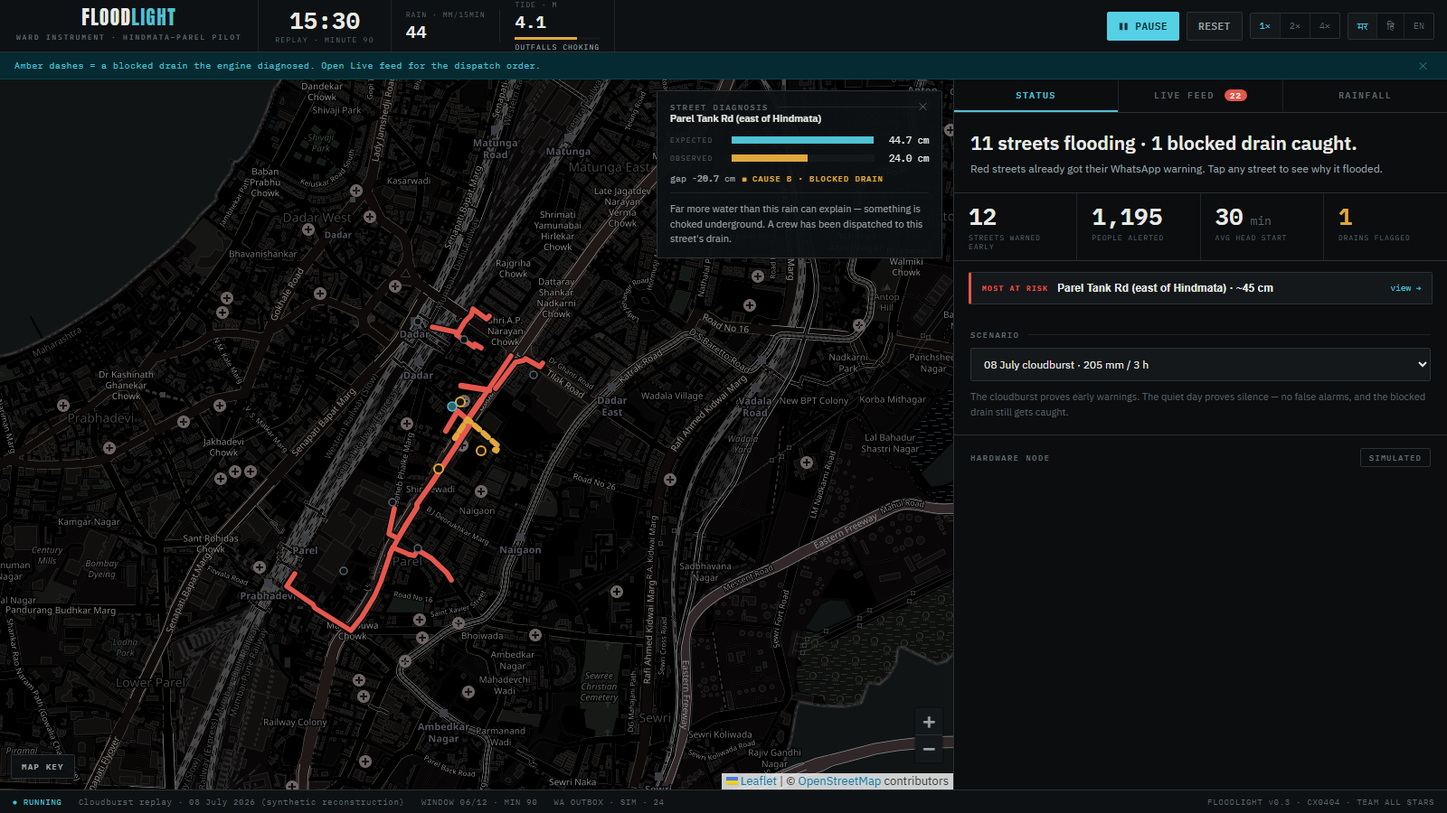
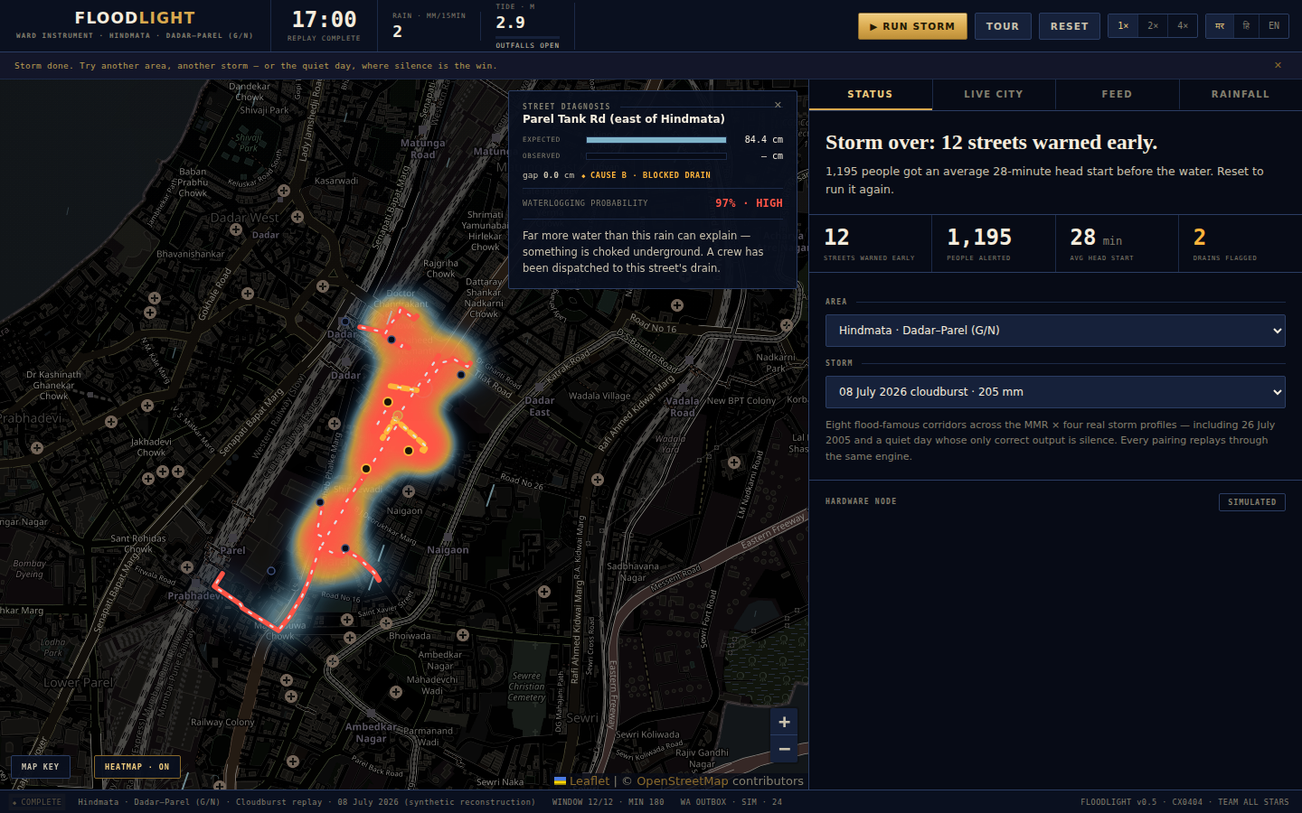
docs: the README, re-cut in the new metal
New banner and every screenshot regenerated from the redesigned
instrument (war room, diagnosis, dispatch, alerts, quiet day, landing,
and STORM WATCH over Bangkok), badges re-struck in navy/brass, a
one-click demo-links table up top, a full STORM WATCH · EARTH section
with the onboarding-not-modelling line, updated test count and honesty
notes, and the stage-kit paragraph. Also: fresh og.png with the new
hero CTA, window.__map demo handle, statusbar reads v0.7.

Claude-Session: https://claude.ai/code/session_01NCAyqExnhYcrByms5d1zCM

diff --git a/floodlight/static/app.js b/floodlight/static/app.js
@@ -52,6 +52,7 @@ const map = L.map("map", {
 }).setView([19.0135, 72.8447], 15);
 
 L.control.zoom({ position: "bottomright" }).addTo(map);
+window.__map = map;                 // demo/scripting handle
 
 const baseTiles = L.tileLayer("https://tile.openstreetmap.org/{z}/{x}/{y}.png", {
   attribution: '&copy; <a href="https://www.openstreetmap.org/copyright">OpenStreetMap</a> contributors',

diff --git a/floodlight/static/index.html b/floodlight/static/index.html
@@ -251,7 +251,7 @@
     <span id="sb-window">WINDOW 00/12</span>
     <span id="sb-outbox">WA OUTBOX · SIM · 0</span>
     <span id="sb-sky" hidden></span>
-    <span class="right">FLOODLIGHT v0.5 · CX0404 · TEAM ALL STARS</span>
+    <span class="right">FLOODLIGHT v0.7 · CX0404 · TEAM ALL STARS</span>
   </footer>
 
   <script src="/static/vendor/leaflet/leaflet.js"></script>

diff --git a/README.md b/README.md
@@ -1,37 +1,55 @@
 <p align="center">
-  <img src="docs/banner.png" alt="FLOODLIGHT — every street warned, every drain diagnosed" width="820" />
+  <img src="docs/banner.png" alt="FLOODLIGHT — every street warned, every drain diagnosed" width="980" />
+</p>
+
+<h3 align="center">Every street, <em>warned.</em> &nbsp;Every drain, <em>diagnosed.</em></h3>
+
+<p align="center">
+  <b>A ward-level flood nervous system for Mumbai — and a scanner that points the same engine
+  anywhere on Earth it is raining right now.</b><br/>
+  <sub>MUSA CodeX 2026 · Problem <b>CX0404 “Flood Street, No Warning”</b> · Smart Cities &amp; Urban Development · Team <b>ALL STARS</b></sub>
 </p>
 
 <p align="center">
-  <b>Hyperlocal flood warnings for Mumbai — every street warned, every drain diagnosed.</b><br/>
-  <sub>MUSA CodeX 2026 · Problem <b>CX0404 “Flood Street, No Warning”</b> · Smart Cities & Urban Development · Team <b>ALL STARS</b></sub>
+  <img alt="python" src="https://img.shields.io/badge/python-3.11+-d9a94e?style=flat-square&labelColor=070b16" />
+  <img alt="fastapi" src="https://img.shields.io/badge/fastapi-one%20SSE%20stream-f4ecdd?style=flat-square&labelColor=070b16" />
+  <img alt="tests" src="https://img.shields.io/badge/tests-35%20green-2bd576?style=flat-square&labelColor=070b16" />
+  <img alt="alerts" src="https://img.shields.io/badge/alerts-मर%20·%20हि%20·%20EN-ffb43b?style=flat-square&labelColor=070b16" />
+  <img alt="storm watch" src="https://img.shields.io/badge/storm%20watch-32%20cities%2C%20live-a8d8e8?style=flat-square&labelColor=070b16" />
+  <img alt="license" src="https://img.shields.io/badge/license-MIT-837f6e?style=flat-square&labelColor=070b16" />
 </p>
 
 <p align="center">
-  <img alt="python" src="https://img.shields.io/badge/python-3.11+-4fc1d4?style=flat-square&labelColor=0b0d0f" />
-  <img alt="fastapi" src="https://img.shields.io/badge/fastapi-SSE%20stream-e8eae6?style=flat-square&labelColor=0b0d0f" />
-  <img alt="tests" src="https://img.shields.io/badge/tests-31%20green-2bd576?style=flat-square&labelColor=0b0d0f" />
-  <img alt="alerts" src="https://img.shields.io/badge/alerts-मर%20·%20हि%20·%20EN-e0a83c?style=flat-square&labelColor=0b0d0f" />
-  <img alt="license" src="https://img.shields.io/badge/license-MIT-9aa3a7?style=flat-square&labelColor=0b0d0f" />
+  <b>▶ Live demo: <a href="https://floodlight.onrender.com">floodlight.onrender.com</a></b>
+  <sub>&nbsp;· free tier, a cold start can take a minute</sub>
 </p>
 
-<p align="center">
-  <b>▶ Live demo: <a href="https://floodlight.onrender.com">floodlight.onrender.com</a></b><br/>
-  <sub>free-tier host — a cold start can take up to a minute. The pitch page opens first;
-  <a href="https://floodlight.onrender.com/app">/app</a> is the war room, and
-  <a href="https://floodlight.onrender.com/app?tour=1">/app?tour=1</a> runs the guided tour.</sub>
-</p>
-
-<p align="center">
-  <sub>
-    <a href="#quickstart">quickstart</a> ·
-    <a href="#the-twist-in-one-diagram">the twist</a> ·
-    <a href="#how-it-works">how it works</a> ·
-    <a href="#beyond-the-replay--already-wired">beyond the replay</a> ·
-    <a href="#deploy-give-judges-a-url">deploy</a> ·
-    <a href="#design-language">design</a>
-  </sub>
-</p>
+<table align="center">
+  <tr>
+    <td><a href="https://floodlight.onrender.com">/</a></td>
+    <td>the pitch page — the hero replays the real 205&nbsp;mm curve over Hindmata's real streets</td>
+  </tr>
+  <tr>
+    <td><a href="https://floodlight.onrender.com/app">/app</a></td>
+    <td>the war room — press <b>▶ RUN STORM</b> (space works too)</td>
+  </tr>
+  <tr>
+    <td><a href="https://floodlight.onrender.com/app?tour=1">/app?tour=1</a></td>
+    <td>the guided tour — the storm narrates itself in title cards</td>
+  </tr>
+  <tr>
+    <td><a href="https://floodlight.onrender.com/app?watch=1">/app?watch=1</a></td>
+    <td><b>STORM WATCH · EARTH</b> — fly to wherever on the planet it is flooding <i>right now</i></td>
+  </tr>
+  <tr>
+    <td><a href="https://floodlight.onrender.com/app?storm=monsoon-2005&autoplay=1">/app?storm=monsoon-2005&autoplay=1</a></td>
+    <td>26 July 2005 — the 944&nbsp;mm day, replayed</td>
+  </tr>
+  <tr>
+    <td><a href="https://floodlight.onrender.com/app?storm=quiet&autoplay=1">/app?storm=quiet&autoplay=1</a></td>
+    <td>Quiet Tuesday — the day whose only correct output is silence</td>
+  </tr>
+</table>
 
 ---
 
@@ -40,7 +58,7 @@ realise it once water is already inside their shops. City-scale alerts cannot wa
 floods for **two entirely different reasons** — genuine rainfall overload, or a **blocked drain even in moderate
 rain** — a system that only watches rainfall completely misses the second, more common cause.
 
-FLOODLIGHT is a ward-level flood nervous system that answers both halves of that problem:
+FLOODLIGHT answers both halves of that problem:
 
 - **Every street, warned** — street-segment forecasts fire WhatsApp/IVR alerts in **Marathi, Hindi and English**
   15–30 minutes *before* the water arrives, per-street, not per-city.
@@ -49,8 +67,9 @@ FLOODLIGHT is a ward-level flood nervous system that answers both halves of that
   water beats the model, the cause is underground: the drain's health score drops and the ward war room gets a
   dispatch card with the evidence attached.
 
-<p align="center"><img src="docs/screenshots/war-room.png" alt="FLOODLIGHT ward instrument at peak storm" width="920" /></p>
-<p align="center"><sub>15:45, peak cloudburst — 11 streets red, the blocked drain dashed amber, a street's diagnosis card open. Calm by default; every detail is one tap away.</sub></p>
+<p align="center"><img src="docs/screenshots/war-room.png" alt="The FLOODLIGHT war room after the 08 July 2026 replay" width="980" /></p>
+<p align="center"><sub>Storm over: 12 streets warned early, 1,195 people with a 28-minute head start, both choked
+drains caught — the blocked one still marching amber dashes. Calm by default; every detail is one tap away.</sub></p>
 
 ## The twist, in one diagram
 
@@ -69,18 +88,34 @@ flowchart LR
 The blockage belief feeds **back into the forecast**: one diagnosed drain immediately sharpens every later
 prediction on its streets. The system learns the ward, storm by storm.
 
+## STORM WATCH · EARTH — it is always raining somewhere
+
+The monsoon retreats from Mumbai in late September. The engine does not care: rainfall physics is not
+a Mumbai monopoly. **Storm Watch** sweeps 32 flood-famous cities across every longitude band — Chennai to
+Jakarta, Lagos to Bogotá — in one batched [Open-Meteo](https://open-meteo.com) call, and ranks who the
+engine would be warning *at this minute*, each with its local clock, sky condition and 6-hour projection.
+
+Tap a city and the map **flies across the planet** — the EUMETSAT infrared mosaic is global, so the journey
+rides over the real clouds — and answers at the far end with the same honest tap-anywhere card, computed
+from the rain falling at that exact spot on a typical dense street. The popup names its nearest
+instrumented corridor (*“Thane Stn (E) · 3,122 km”*) and says the quiet part out loud:
+**corridor-grade answers need a mapped corridor — that's onboarding, not modelling.**
+
+<p align="center"><img src="docs/screenshots/stormwatch.png" alt="Storm Watch: the engine answering over Bangkok" width="980" /></p>
+<p align="center"><sub>19:55 IST in the war room, 02:55 in Bangkok — the scanner ranks the planet's wet cities,
+the map has flown to the wettest, and the area estimate is computed from the rain actually falling there.
+Tide is scored neutral outside the MMR and labelled so.</sub></p>
+
 ## Quickstart
 
 ```bash
 pip install -r requirements.txt
 python run.py
 # open http://localhost:8737 — the landing page — and step into the war room,
-# or go straight to http://localhost:8737/app and press ▶ Run storm.
-# Pressed for time? /app?tour=1 replays the storm with cinematic captions.
+# or go straight to http://localhost:8737/app and press ▶ RUN STORM.
+# Pressed for time? /app?tour=1 narrates the storm; /app?watch=1 flies to
+# wherever on Earth it is raining right now.
 ```
-
-Deep links the landing page uses (and you can too): `/app?storm=monsoon-2005&autoplay=1`,
-`/app?area=kurla&live=1`, `/app?tour=1` — any pairing, one click deep.
 
 **Eight flood-famous corridors across the Mumbai Metropolitan Region × four real storm profiles** — every
 pairing replays through the same engine. Island city to the northern suburbs and across the creek:
@@ -92,69 +127,55 @@ Hindmata, Milan Subway, King's Circle, **Kurla**, **Mulund**, **Borivali–Dahis
 | MCGM wards | Hindmata · Milan Subway · King's Circle · Kurla · Mulund · Borivali–Dahisar | **08 July 2026 cloudburst · 205 mm** — the flagship run |
 | Beyond the city | **Thane (TMC)** · **Mira Road (MBMC)** | **26 July 2005 · the 944 mm day** — Mumbai's benchmark catastrophe |
 | Live region strip | every corridor's REAL rain + risk right now, tap to jump | **29 Aug 2017 · ~331 mm** — the day the city re-lived 2005 |
-| | | **Quiet Tuesday · 75 mm** — the day whose only correct output is **silence** |
+| The whole planet | **Storm Watch** ranks 32 world cities by live rain | **Quiet Tuesday · 75 mm** — the day whose only correct output is **silence** |
 
 Flagship pairings carry hand-authored citizen traffic; every other pairing gets deterministic crowd
-scripts derived from the hydrology itself — pick any ward, throw any storm at it, the story still plays.
-On the quiet day, **zero healthy streets alert** and the blocked drain still gets caught — in *all eight
-corridors* (pinned by tests — the matrix runs 32 replays).
+scripts derived from the hydrology itself. On the quiet day, **zero healthy streets alert** and the blocked
+drain still gets caught — in *all eight corridors* (pinned by tests — the matrix runs 32 replays).
 
 ### LIVE CITY — real rainfall, right now
 
 The **Live city** tab leaves the replay entirely: it pulls **real 15-minutely rainfall** for the active
-ward from [Open-Meteo](https://open-meteo.com) (keyless, genuinely live), shades the streets with the same
-hydrology fed today's actual rain, and draws the weather — **rain particles over the map scale with the
-real rain rate**, flooding streets run animated flow-lines, tide is an honest labelled estimate — and a
-**rain heatmap** paints precipitation across Greater Mumbai from a 42-point Open-Meteo grid spanning the whole MMR (in replay
-mode the heat layer shows waterlogging depth instead). Citizen reports and the hardware node stream in
-through the same channels as the replay.
+ward from Open-Meteo (keyless, genuinely live), shades the streets with the same hydrology fed today's
+actual rain, and draws the weather — rain particles scale with the real rate, flooding streets run
+animated flow-lines, and a **rain heatmap** paints precipitation across Greater Mumbai from a 42-point
+grid (in replay mode the heat layer shows waterlogging depth instead).
 
-**The sky, before the first drop.** A dashboard that only shows *current* rain sits dark on the very
-afternoon the clouds are stacking up — so LIVE CITY also reads the sky. A **sky-state strip** names the
-moment in plain words (*OVERCAST · 96% CLOUD*, *THUNDERSTORM EXPECTED ~16:00 · in ~2 h*), with an animated
-condition icon and a pulsing ETA chip when a storm is inbound. Below it, a **12-hour forecast outlook** —
-one tappable cell per hour: cloud cover as the cap, expected rain as the bar (teal → amber → red), chance
-of rain underneath; tap any hour for the exact numbers. The rain heatmap gains a **NEXT 6 H mode** (one
-tap on the heat pill) that paints where the *coming* rain will fall, the MMR strip shows each corridor's
-forecast (**34% now ▲ 78% within 6 h** when risk is climbing), and the tap-anywhere probability card
-carries a labelled forecast line. And the clouds on the map are **the real ones**: EUMETSAT's
-geostationary-ring infrared mosaic (10.8 µm, open WMS — seam-free and tonally balanced, unlike raw
-per-satellite quicklooks). The layer is zoom-aware so the instrument
-never drowns — over streets it rides as a subtle screen-blended glow, and when you pull out to true
-weather zooms it takes the frame like a forecaster's satellite loop; the 42-point cloud-cover grid is
-the automatic fallback, and cloud cover still drives the FX deck so an 84%-overcast afternoon darkens
-the map before a single gauge ticks. Every forecast value is labelled as a forecast; nothing pretends
-to be a measurement.
+**The sky, before the first drop.** A sky-state strip names the moment in plain words (*OVERCAST · 96%
+CLOUD*, *THUNDERSTORM EXPECTED ~16:00 · in ~2 h*); a tappable **12-hour outlook** shows each hour's cloud,
+expected rain and probability; the heat pill gains a **NEXT 6 H** forecast mode; and the MMR strip reads
+*34% now ▲ 78% within 6 h* when risk is climbing. The clouds on the map are **the real ones** —
+EUMETSAT's geostationary-ring infrared mosaic (10.8 µm, open WMS), zoom-aware so the instrument stays
+legible over streets and becomes a forecaster's satellite loop when you pull out. Every forecast value is
+labelled as a forecast; nothing pretends to be a measurement.
 
-**Tap anywhere → waterlogging probability.** Click any point on the map and FLOODLIGHT returns a
-calculated probability for that exact spot — a calibrated logistic over the projected peak depth of the
-nearest street, scaled by drain-health belief, tide lock and proximity — with every driver shown as a
-bar, not a black box. Streets, drains, the sensor and the KPI tiles are all clickable too.
+**Tap anywhere on the planet → waterlogging probability.** Click any land point and FLOODLIGHT returns a
+calculated probability — a calibrated logistic over projected peak depth, scaled by drain health, tide
+lock and proximity on an instrumented corridor; an honestly-graded **AREA ESTIMATE** from the rain at
+that exact spot plus terrain elevation anywhere else. Only open water refuses to invent a number.
+Outside the MMR the tide is scored neutral and the card says so.
 
-The dashboard is deliberately calm: a plain-language status line, four numbers, and a map. Everything else
-is tap-to-reveal — tap a street for its diagnosis card, open the Live feed tab for the raw log (citizen
-photos carry their **CV depth-band tags**), Rainfall for the gauge chart, Map key when you need it.
-
-**What to watch for during the replay**
+**What to watch during the flagship replay**
 
 | Storm clock | What happens | Why it matters |
 |---|---|---|
 | 14:30 | Parel Tank Rd reports water at only 9 mm/15min → **CAUSE B**, drain `D-07` flagged, crew dispatched with photo evidence | The rain-only blind spot, caught in 30 minutes |
 | 15:00 | Hindmata bowl street alert fires — **T−30 min before water crosses the doorstep** | Lead time, not commentary |
-| 15:30 | Tide peaks at 4.5 m — outfalls seal, the model expects the surge before it happens | Mumbai-specific physics, encoded |
-| 17:00 | 12 street alerts · ~1,200 people warned · avg lead ~30 min · 1 drain diagnosed | The KPIs the ward actually cares about |
+| 15:30 | Tide crosses ~3 m — outfalls seal, the model expects the surge before it happens | Mumbai-specific physics, encoded — drawn on the storm chart |
+| 17:00 | 12 street alerts · ~1,200 people warned · avg 28 min lead · drains diagnosed | The KPIs the ward actually cares about |
 
-File your own citizen report from the composer (bottom-right) while the storm runs — the engine ingests it on
-the next window exactly like the scripted WhatsApp traffic.
+File your own citizen report from the composer while the storm runs — the engine ingests it on the next
+window exactly like the scripted WhatsApp traffic. Presenting? **Space** runs/pauses, **T** starts the
+tour, **R** resets.
 
 <table align="center">
   <tr>
-    <td align="center"><img src="docs/screenshots/diagnosis.png" alt="Tap-to-reveal street diagnosis" width="440" /><br/><sub><b>Tap a street →</b> its diagnosis, in plain language</sub></td>
-    <td align="center"><img src="docs/screenshots/quiet.png" alt="Quiet day: zero alerts sent" width="440" /><br/><sub><b>The negative case:</b> a normal day sends zero alerts — drain still caught</sub></td>
+    <td align="center"><img src="docs/screenshots/diagnosis.png" alt="Street diagnosis card — CAUSE B" width="470" /><br/><sub><b>Tap a street →</b> expected vs observed, and the verdict in plain language</sub></td>
+    <td align="center"><img src="docs/screenshots/quiet.png" alt="Quiet day: zero alerts sent" width="470" /><br/><sub><b>The negative case:</b> a normal rainy day sends zero alerts — drain still caught</sub></td>
   </tr>
   <tr>
-    <td align="center"><img src="docs/screenshots/dispatch.png" alt="Cause B dispatch card with evidence" width="440" /><br/><sub><b>Cause B →</b> crew dispatched with photo evidence, minute 30</sub></td>
-    <td align="center"><img src="docs/screenshots/alerts.png" alt="Trilingual street alerts with lead time" width="440" /><br/><sub><b>Cause A →</b> trilingual alerts with a T−30 min head start</sub></td>
+    <td align="center"><img src="docs/screenshots/dispatch.png" alt="Cause B dispatch card with evidence" width="470" /><br/><sub><b>Cause B →</b> crew dispatched with photo evidence, storm-minute 30</sub></td>
+    <td align="center"><img src="docs/screenshots/alerts.png" alt="Trilingual street alerts with lead time" width="470" /><br/><sub><b>Cause A →</b> trilingual alerts with a real head start</sub></td>
   </tr>
 </table>
 
@@ -166,19 +187,19 @@ the next window exactly like the scripted WhatsApp traffic.
 | EXPECT | [`engine/hydrology.py`](floodlight/engine/hydrology.py) | Per-segment excess-rain model: drain capacity, bowl factor, **tide-lock multiplier** |
 | COMPARE | [`engine/twin_cause.py`](floodlight/engine/twin_cause.py) | Expected vs observed → cause verdict; blockage beliefs update Bayesian-style and feed back into EXPECT |
 | WARN | [`engine/alerts.py`](floodlight/engine/alerts.py) | Nowcast projection buys the lead time; alerts render in mr/hi/en; dispatch cards carry drain ID + evidence |
-| SHOW | [`static/`](floodlight/static/) | Leaflet war-room dashboard fed by one SSE stream — no framework, no build step |
-
-Run the tests:
+| SCAN | [`engine/livefeed.py`](floodlight/engine/livefeed.py) | LIVE CITY + STORM WATCH: real rain in, same hydrology out, honestly labelled |
+| SHOW | [`static/`](floodlight/static/) | Leaflet war room fed by one SSE stream — no framework, no build step |
 
 ```bash
-python -m pytest tests/ -q
+python -m pytest tests/ -q          # 35 green
 ```
 
-Thirty-one tests pin what the pitch claims: tide lock amplifies flooding · two surprising reports diagnose and
+The tests pin what the pitch claims: tide lock amplifies flooding · two surprising reports diagnose and
 dispatch a blocked drain exactly once · a full replay produces early trilingual alerts with real lead time ·
-the quiet-day replay sends **zero** street alerts while still catching D-07 · WhatsApp payloads parse into
-reports (depth from "15cm" or "घुटनों तक") · a hardware sensor reading overrides the script · CV depth
-estimation discriminates between bands on real photos.
+the quiet-day replay sends **zero** street alerts while still catching D-07 — across all eight corridors ·
+WhatsApp payloads parse into reports (depth from "15cm" or "घुटनों तक") · a hardware sensor reading
+overrides the script · CV depth estimation discriminates between bands on real photos · the world scanner
+stays calm in steady rain and ranks violent rain HIGH with a climbing projection.
 
 ## Beyond the replay — already wired
 
@@ -192,39 +213,43 @@ estimation discriminates between bands on real photos.
 ## Deploy (give judges a URL)
 
 Already done: **https://floodlight.onrender.com** (Render free tier — cold starts take up to a minute).
-
-The app is a single uvicorn process with no database, so free tiers eat it happily.
-[`render.yaml`](render.yaml) and a `Procfile` are included: connect this repo on
-[Render](https://render.com) (or Railway/Fly), start command
-`uvicorn floodlight.app:app --host 0.0.0.0 --port $PORT`, health check `/healthz`.
+A single uvicorn process, no database. [`render.yaml`](render.yaml) and a `Procfile` are included:
+start command `uvicorn floodlight.app:app --host 0.0.0.0 --port $PORT`, health check `/healthz`.
 
 ## Design language
 
-**Marine Drive, midnight, monsoon.** The interface is styled as a serious hydrological
-instrument built from Mumbai's own materials — the city's Art Deco seafront, at night, in the rain —
-rather than the default dark-dashboard look:
+**Marine Drive, midnight, monsoon.** The interface is a serious hydrological instrument built from
+Mumbai's own materials — the city's Art Deco seafront, at night, in the rain — rather than the default
+dark-dashboard look:
 
 - **monsoon-midnight navy** surfaces split by hairline rules; **warm cream** ink, never cold gray
-- **brass/gold chrome** on everything interactive — Marine Drive is a UNESCO Art Deco ensemble,
-  so the glamour is native, not imported; deco shows up only in details (diamond bullets,
-  corner brackets, the cinema-marquee storm ticker)
+- **brass/gold chrome** on everything interactive — Marine Drive is a UNESCO Art Deco ensemble, so the
+  glamour is native, not imported; deco lives in details (diamond bullets, corner brackets, the
+  cinema-marquee storm ticker)
 - **Fraunces** for the few earned editorial moments (the headline, the summary line, the tour's
   title-card captions); **Archivo** for UI; **Space Mono** strictly for data
-- **status colours stay functional and hot** — signal amber (watch · blocked), coral vermillion
-  (alert), ice for water in motion — and are never reused as decoration
-- **cased cartographic strokes** on the navy-tinted map — dark casing under a solid colour fill,
-  the way professional GIS tools draw roads; the blocked drain marches amber dashes because that
-  *is* signal
+- **status colours stay functional and hot** — signal amber (watch · blocked), coral vermillion (alert),
+  ice for water in motion — never reused as decoration, and verified colour-blind-separable
+- **cased cartographic strokes** on the navy-tinted map — dark casing under a solid colour fill, the way
+  professional GIS tools draw roads; the blocked drain marches amber dashes because that *is* signal
 - **honest charts** — the storm profile is two stacked lanes on a shared clock (never a dual axis):
-  single-hue rain bars with the future outlined, and the tide against the drawn ~3 m outfall-seal
-  threshold
-- **progressive disclosure** — a plain-language serif status line and four numbers by default; the
-  street diagnosis, the raw feed, the storm profile and the report composer all open on demand
+  single-hue rain bars with the future outlined, the tide against the drawn ~3 m outfall-seal threshold
+- **progressive disclosure** — a plain-language serif status line and four numbers by default; the street
+  diagnosis, the raw feed, the storm profile and the report composer all open on demand
+
+<p align="center"><img src="docs/screenshots/landing.png" alt="The FLOODLIGHT landing page" width="980" /></p>
+<p align="center"><sub>The landing hero replays the real 08 July 2026 curve over Hindmata's real street
+geometry — from the same engine that runs the instrument.</sub></p>
 
 ## Honest data notes
 
 - **Replay series are synthetic reconstructions** shaped after real MCGM AWS cloudburst records and spring-tide
   curves — clearly labeled in-app. The live system reads the same shapes from `dm.mcgm.gov.in`.
+- **Live rainfall, sky and forecasts are real** — [Open-Meteo](https://open-meteo.com), keyless,
+  15-minutely; clouds on the map are EUMETSAT's infrared mosaic. Every forecast is labelled a forecast.
+- **Storm Watch is an honest estimate** — a typical dense street (≈18 mm/h effective drainage), crest-tracked
+  through a convectively-concentrated forecast, tide neutral outside the MMR and labelled so. It never
+  impersonates corridor data: mapped corridors are onboarding, not modelling.
 - **Segment geometry is road-snapped to real OSM streets** (Overpass extract + shortest-path along the named
   ways; two small market/approach lanes hand-traced where OSM has no drivable way) — production ingests
   BMC SWD drainage geometry directly.
@@ -234,19 +259,16 @@ rather than the default dark-dashboard look:
 
 ## Grand Finale (27 Sep)
 
-The roadmap items landed early (table above). What remains for the stage is connection and theatre:
-venue Wi-Fi, the live sensor bucket-dunk, and alert thresholds tuned on a Hindmata field walk.
-
-Stage kit, built in: the landing page at `/` opens the pitch (the hero replays the real 205 mm
-curve over Hindmata's real geometry), the **TOUR** button in the war room auto-plays the flagship
-storm with lower-third captions cut from live engine data — dispatch, first alert, tide lock,
-closing KPIs — and every alert that fires lands as a cinematic caption over the map in the
-selected language. The whole instrument works on a phone, so the demo URL survives being opened
-from the audience.
+The roadmap landed early. Stage kit, built in: the landing page opens the pitch, **TOUR** narrates the
+flagship storm in title cards cut from live engine data, every alert lands as a cinematic lower-third in
+the selected language, **STORM WATCH · EARTH** proves the engine on whichever city the planet is soaking
+*during the demo*, and the whole instrument works on a phone — the demo URL survives being opened from
+the audience. What remains is connection and theatre: venue Wi-Fi, the live sensor bucket-dunk, and
+thresholds tuned on a Hindmata field walk.
 
 ## Team ALL STARS
 
-**Saud Satopay** · systems, data & integration — **Harsh Mishra** · backend & inference —
-**Parva Panchal** · product & field research
+**Saud Satopay** · systems, data &amp; integration — **Harsh Mishra** · backend &amp; inference —
+**Parva Panchal** · product &amp; field research
 
 *Built for MUSA CodeX 2026 (Maharashtra University Students Association). MIT licensed.*
